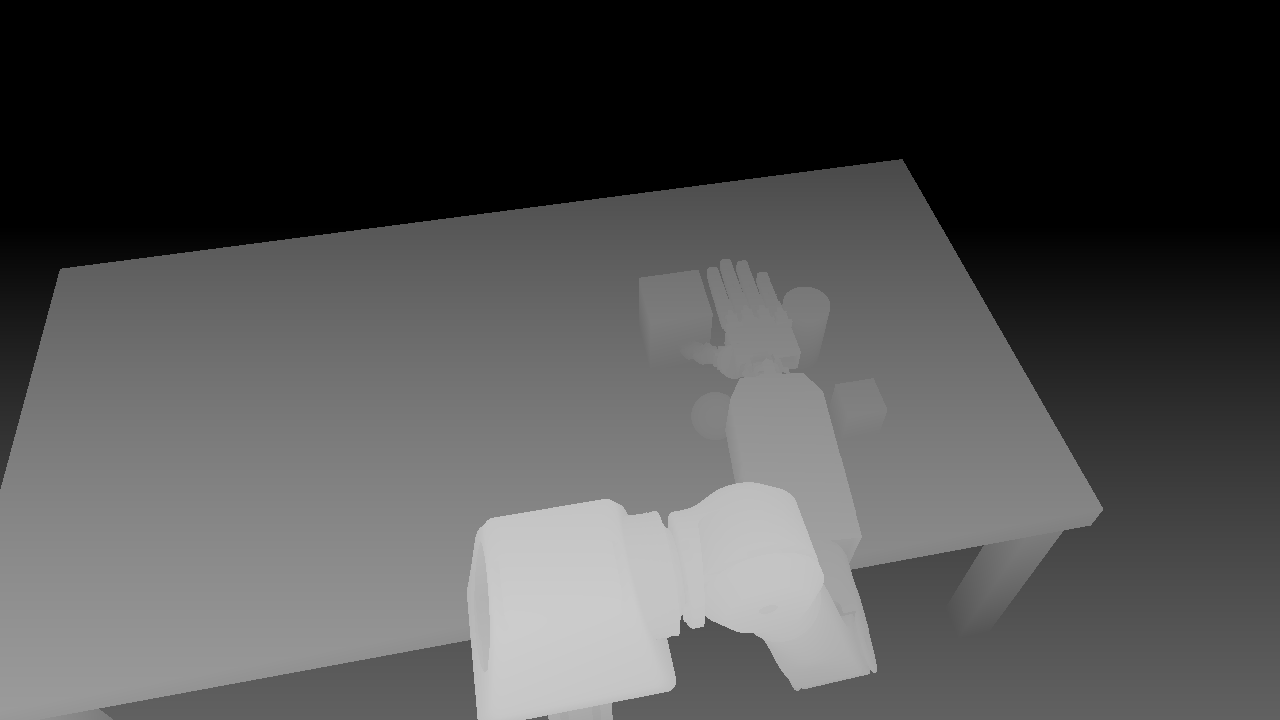
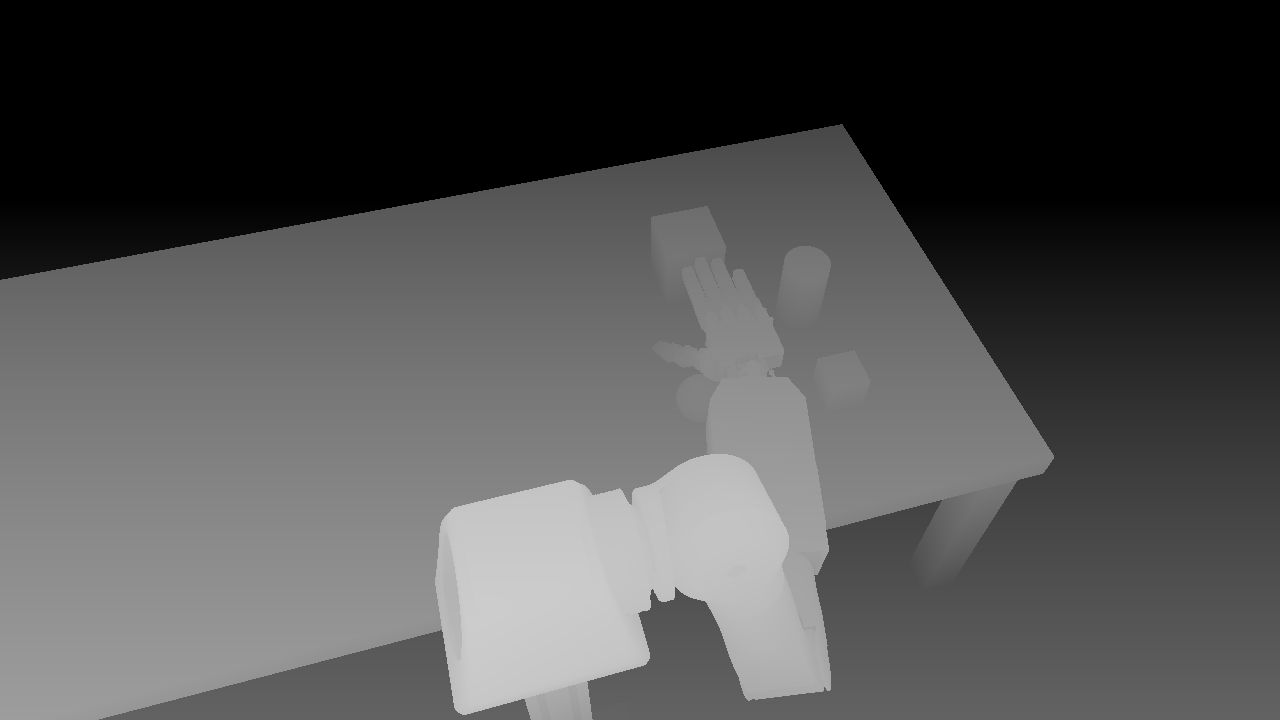
Add OpenArm robot assembly with V2.1 hand, forearm twist, cameras and table scene
Claude-Session: https://claude.ai/code/session_015eCZjGrRnntdrHFfEBvh7i

diff --git a/cloud-claude/2026-11-17-skill-network/tests/test_robot.py b/cloud-claude/2026-11-17-skill-network/tests/test_robot.py
@@ -351,7 +351,7 @@ def test_head_camera_sees_the_table(robot):
     assert cam_pos[0] < -0.1 and cam_pos[2] > 1.0  # behind the shoulders (shoulder x = 0), above them (0.698)
     cx, cy = br.TABLE_CENTRE
     for point in ([cx, cy, br.TABLE_TOP], [*br.TABLE_POSE_XY, br.TABLE_TOP],
-                  [0.28, -0.43, br.TABLE_TOP], [0.42, -0.27, br.TABLE_TOP]):  # fmt: skip
+                  [0.28, -0.43, br.TABLE_TOP], [0.52, -0.30, br.TABLE_TOP]):  # fmt: skip
         u, v, depth = project(robot, d, "head_cam", point)
         assert 0.05 * W < u < 0.95 * W and 0.05 * H < v < 0.95 * H and depth > 0.3, (point, u, v)
     # the right workspace (the 40 x 30 cm region) is fully in view

diff --git a/cloud-claude/2026-11-17-skill-network/model/build_robot.py b/cloud-claude/2026-11-17-skill-network/model/build_robot.py
@@ -434,7 +434,7 @@ OBJECTS = {
     "cube": (mujoco.mjtGeom.mjGEOM_BOX, [0.025, 0.025, 0.025], 0.12, [0.2, 0.45, 0.85, 1], (0.28, -0.43)),
     "cylinder": (mujoco.mjtGeom.mjGEOM_CYLINDER, [0.030, 0.050], 0.15, [0.85, 0.25, 0.2, 1], (0.42, -0.43)),
     "ball": (mujoco.mjtGeom.mjGEOM_SPHERE, [0.030], 0.06, [0.95, 0.75, 0.15, 1], (0.30, -0.25)),
-    "mug_box": (mujoco.mjtGeom.mjGEOM_BOX, [0.040, 0.040, 0.0475], 0.30, [0.3, 0.7, 0.4, 1], (0.42, -0.27)),
+    "mug_box": (mujoco.mjtGeom.mjGEOM_BOX, [0.040, 0.040, 0.0475], 0.30, [0.3, 0.7, 0.4, 1], (0.52, -0.30)),
 }
 
 
